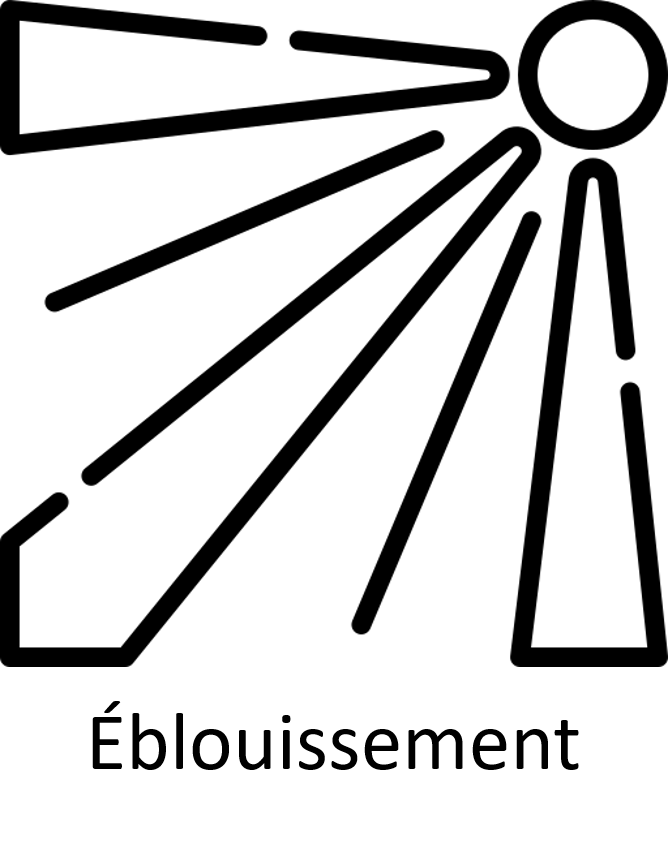
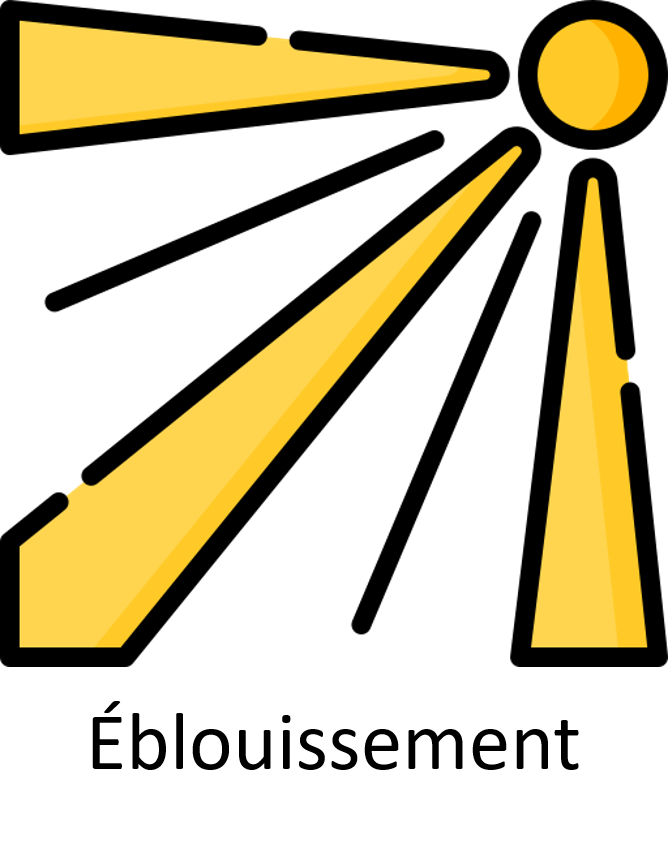
MODIFY : Modification des icônes pour l'éblouissement, le dépassement proche (remontée de file), la situation accidentelle (incident) Modification du code pour qu'au lancement seule l'icone de démarrage devienne verte

diff --git a/CADisp/cadisp/dashboard.py b/CADisp/cadisp/dashboard.py
@@ -546,8 +546,8 @@ class Dashboard(QtWidgets.QMainWindow):
 
         #Passe les boutons au vert
         self.buttonPower.setStyleSheet(_fromUtf8('background-color: rgb(176, 242, 182);'))
-        self.buttonMalGere.setStyleSheet(_fromUtf8('background-color: rgb(176, 242, 182);'))
-        self.buttonGere.setStyleSheet(_fromUtf8('background-color: rgb(176, 242, 182);'))
+        # self.buttonMalGere.setStyleSheet(_fromUtf8('background-color: rgb(176, 242, 182);'))
+        # self.buttonGere.setStyleSheet(_fromUtf8('background-color: rgb(176, 242, 182);'))
 
         #mise au format date qui passe dans un nom de fichier
         txtDate = str(datetime.datetime.now())
